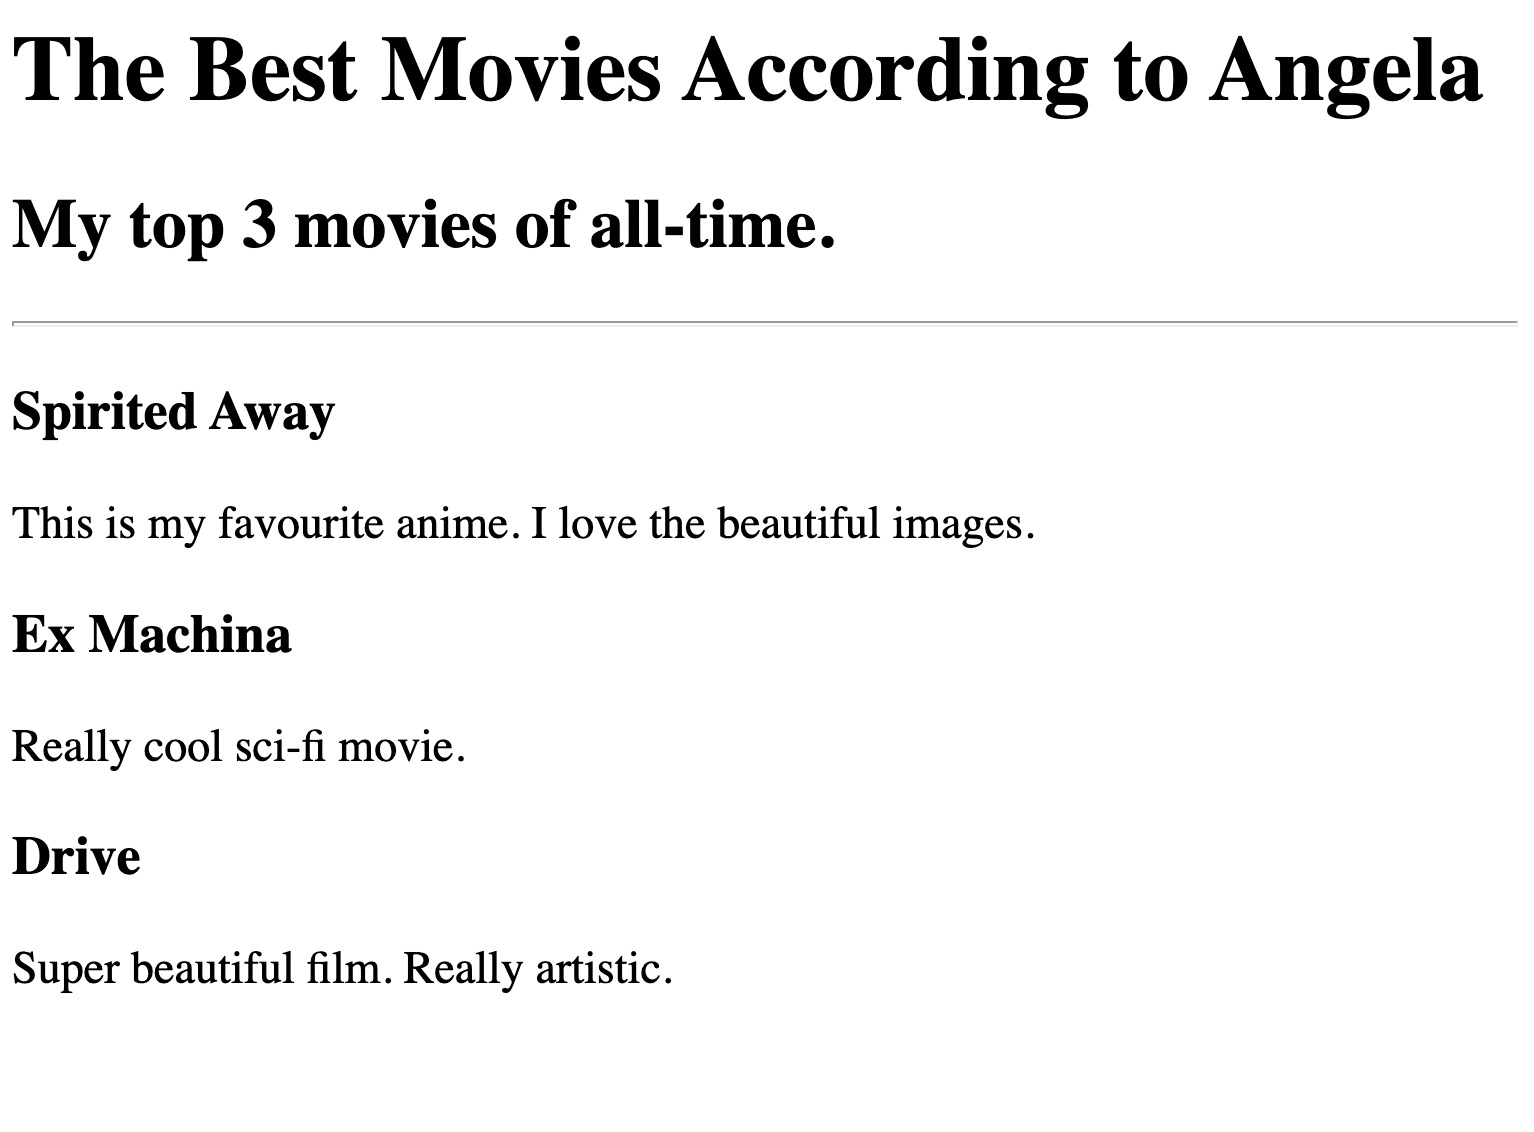
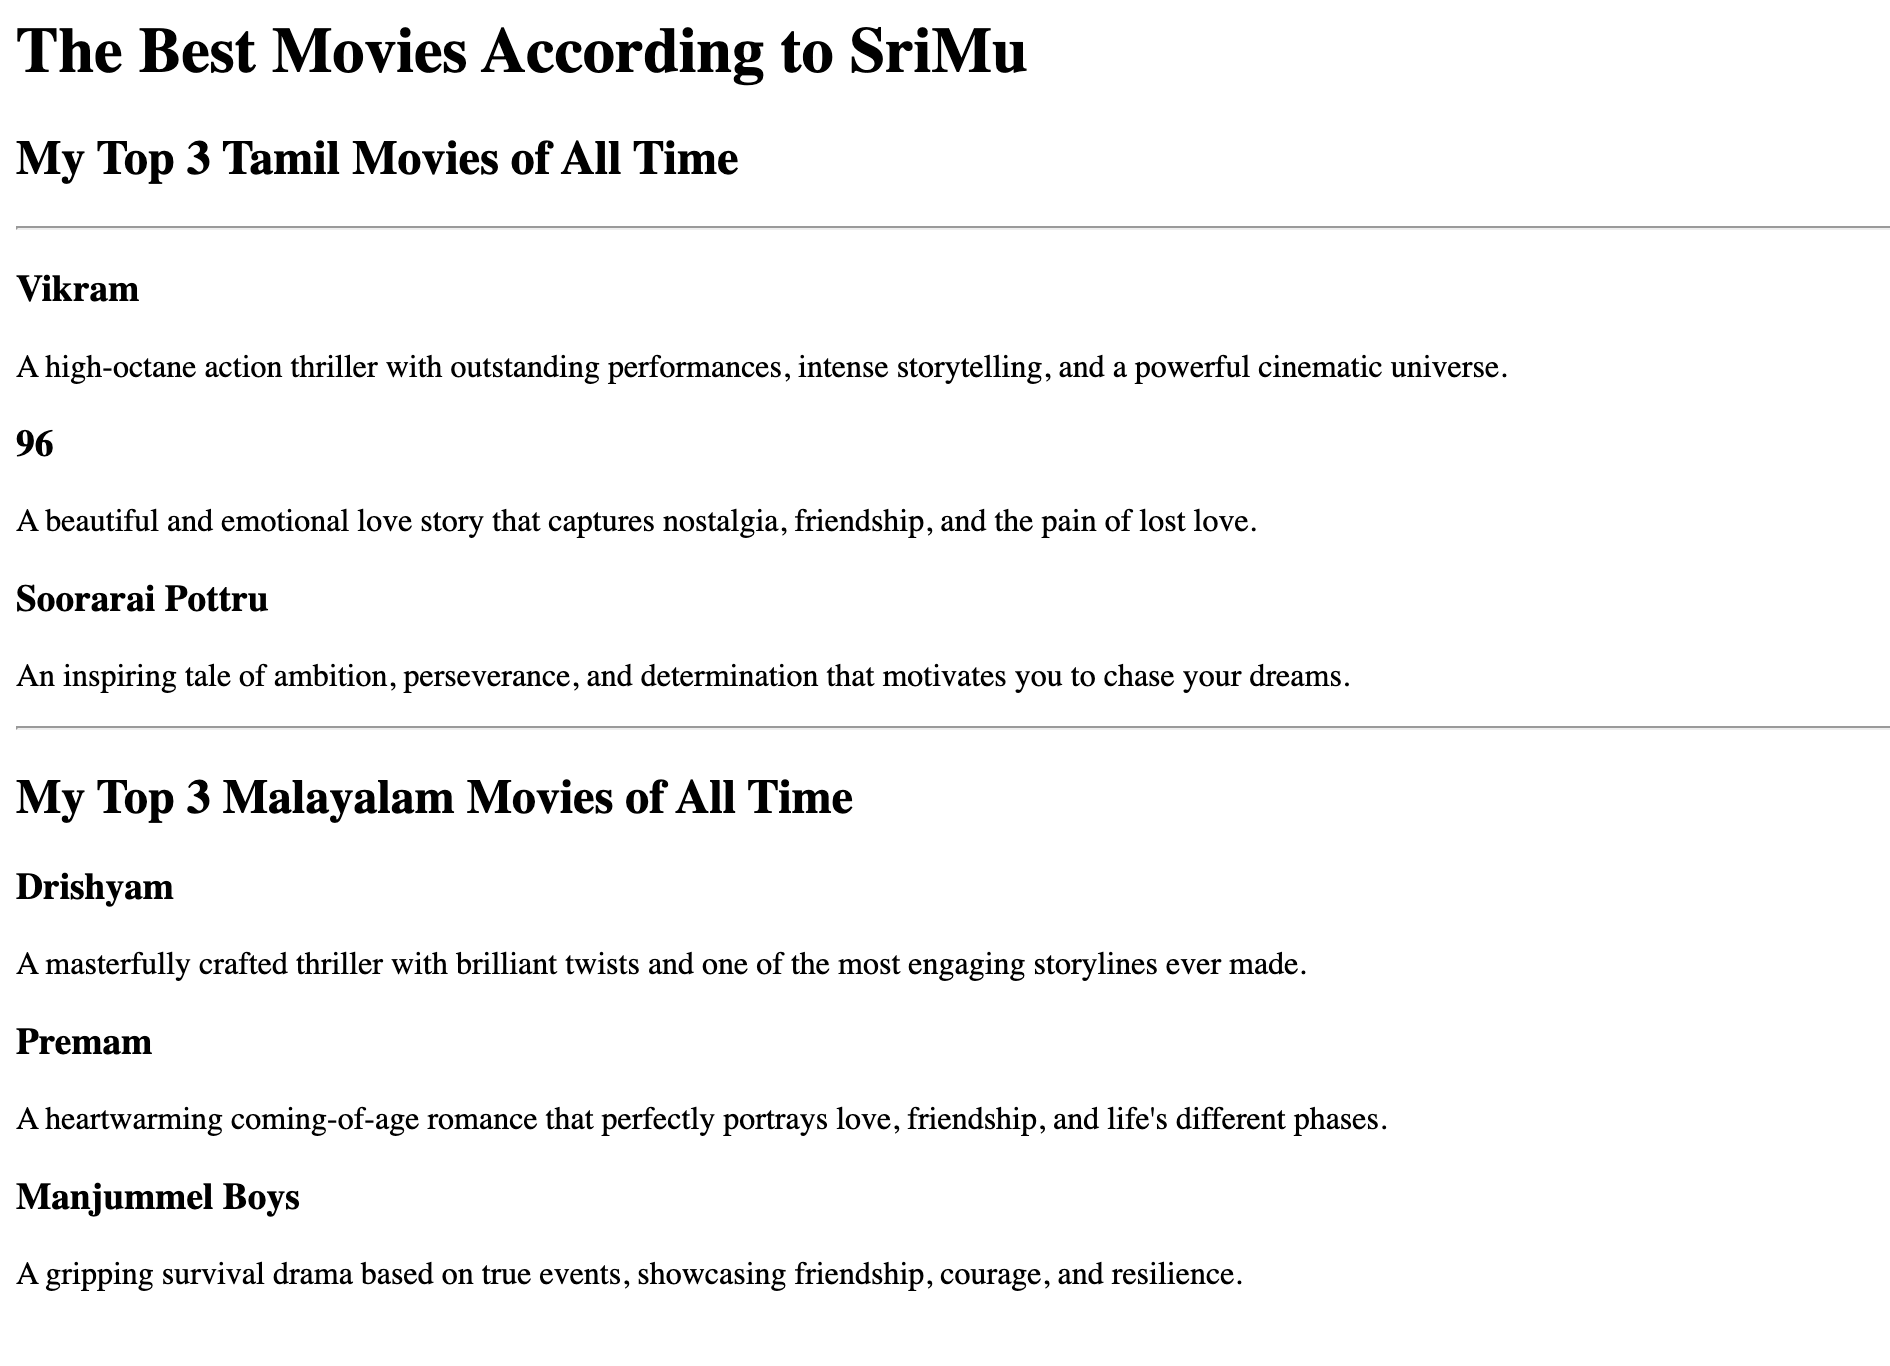
Birthday Invite - Updated

diff --git a/Coding Exercises/4.3 HTML Porfolio Project/index.html b/Coding Exercises/4.3 HTML Porfolio Project/index.html
@@ -1,15 +1,22 @@
-<!-- TODO 1: Create the HTML Boilerplate -->
+<!DOCTYPE html>
+<html lang="en">
 
-<!-- TODO 2: Add Your previous projects' HTML into the public folder -->
+<head>
+  <meta charset="UTF-8">
+  <title>Sridharan's Portfolio</title>
+</head>
 
-<!-- TODO 3: Take screenshots of your project previews and add the images to the images folder -->
+<body>
+  <h1>Sridharan's Portfolio</h1>
+  <h2>I'm a Product Designer</h2>
+  <hr />
+  <h3><a href="./public/movie-ranking.html">Movie Ranking Project</a></h3>
+  <img src="./assets/images/movie-ranking.png" height="200" alt="movie ranking project preview"/>
+  <h3><a href="./public/birthday-invite.html">Birthday Invite Project</a></h3>
+  <img src="./assets/images/birthday-invite.png" height="200" alt="birthday invite project preview"/>
+  <hr />
+  <a href="./public/about.html">About Me</a>
+  <a href="./public/contact.html">Contact Me</a>
+</body>
 
-<!-- TODO 4: Add titles/subtitles etc. -->
-
-<!-- TODO 5: Add a link to the project pages -->
-
-<!-- TODO 6: Add images to show the project previews
-HINT for TODO 6: You can use the height attribute set to 200 to make the image smaller:
-https://developer.mozilla.org/en-US/docs/Web/HTML/Element/img#attr-height -->
-
-<!-- TODO 7: Add the Contact Me and About Me page links -->
+</html>

diff --git a/Coding Exercises/4.3 HTML Porfolio Project/public/birthday-invite.html b/Coding Exercises/4.3 HTML Porfolio Project/public/birthday-invite.html
@@ -1,18 +1,15 @@
-<!-- This is one possible solution -->
 <h1>It's My Birthday!</h1>
-<h2>On the 12th May</h2>
 
-<img src="https://raw.githubusercontent.com/appbrewery/webdev/main/birthday-cake3.4.jpeg"
-  alt="purple birthday cake with candles" />
+<h2>On the 22nd July</h2>
+
+<img src="https://raw.githubusercontent.com/appbrewery/webdev/main/birthday-cake3.4.jpeg" alt="birthday cake">
 
 <h3>What to bring:</h3>
-<ul>
-  <li>Baloons (I love baloons)</li>
-  <li>Cake (I'm really good at eating)</li>
-  <li>An appetite (There will be lots of food)</li>
-</ul>
+    <ul>
+        <li>Balloons (I have Balloons)</li>
+        <li>Cake (I'm really good at eating)</li>
+        <li>An appetite (There will be lots of food)</li>
+    </ul>
 
 <h3>This is where you need to go:</h3>
-<a
-  href="https://www.google.com/maps/@35.7040744,139.5577317,3a,75y,289.6h,87.01t,0.72r/data=!3m6!1e1!3m4!1sgT28ssf0BB2LxZ63JNcL1w!2e0!7i13312!8i6656">Google
-  map link</a>
+    <a href="https://www.google.com/maps/@35.7040744,139.5577317,3a,75y,289.6h,87.01t,0.72r/data=!3m6!1e1!3m4!1sgT28ssf0BB2LxZ63JNcL1w!2e0!7i13312!8i6656">Google map link</a>

diff --git a/Coding Exercises/3.5 Birthday Invite Project/index.html b/Coding Exercises/3.5 Birthday Invite Project/index.html
@@ -12,4 +12,4 @@
     </ul>
 
 <h3>This is where you need to go:</h3>
-    <a href="https://raw.githubusercontent.com/appbrewery/webdev/main/birthday-cake3.4.jpeg">Google map link</a>
+    <a href="https://www.google.com/maps/@35.7040744,139.5577317,3a,75y,289.6h,87.01t,0.72r/data=!3m6!1e1!3m4!1sgT28ssf0BB2LxZ63JNcL1w!2e0!7i13312!8i6656">Google map link</a>